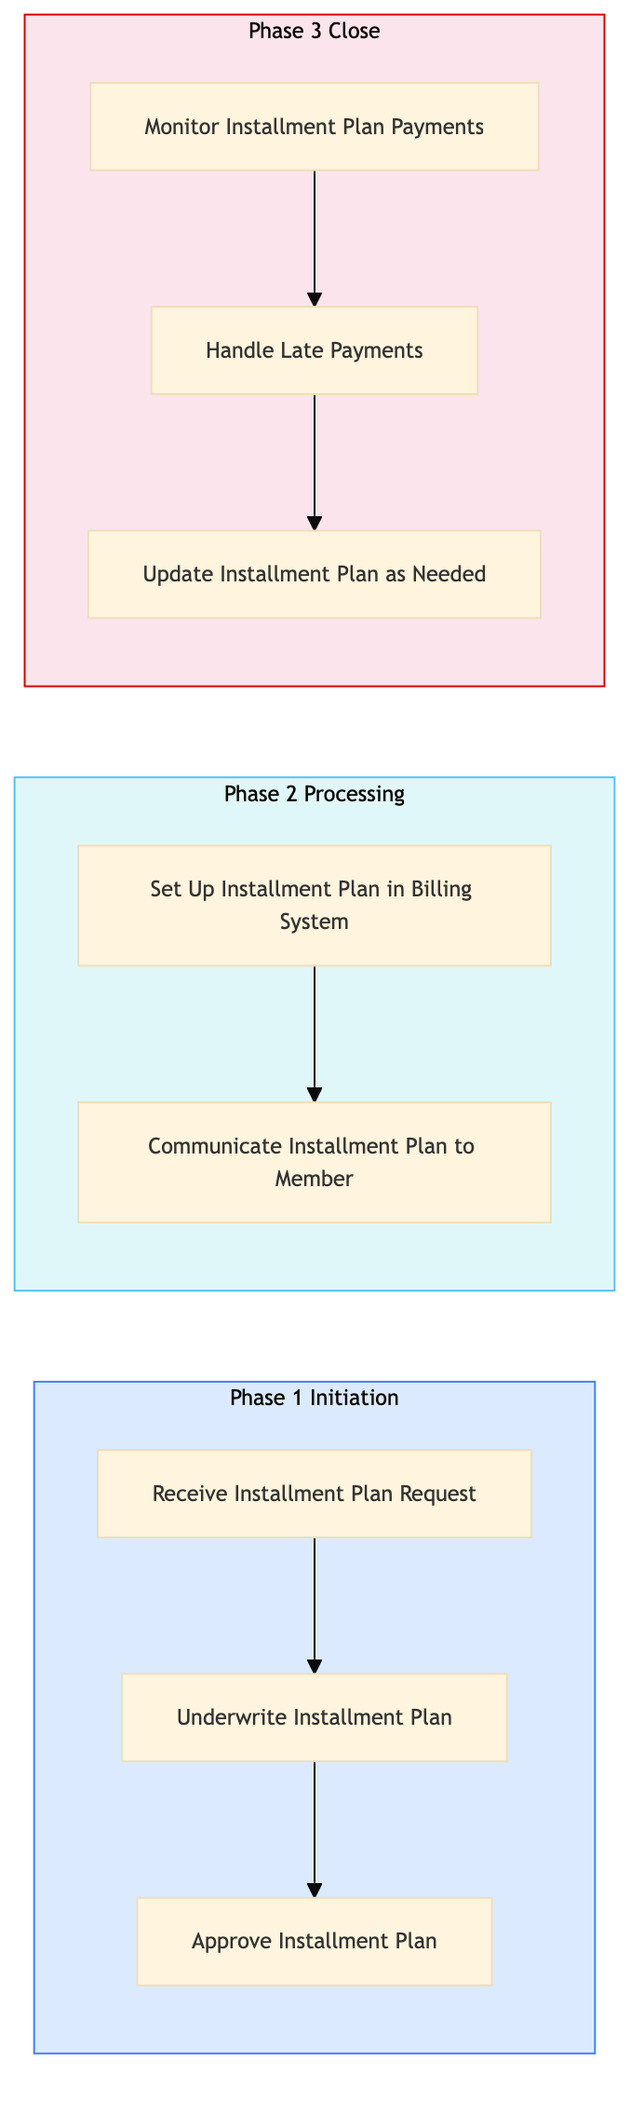
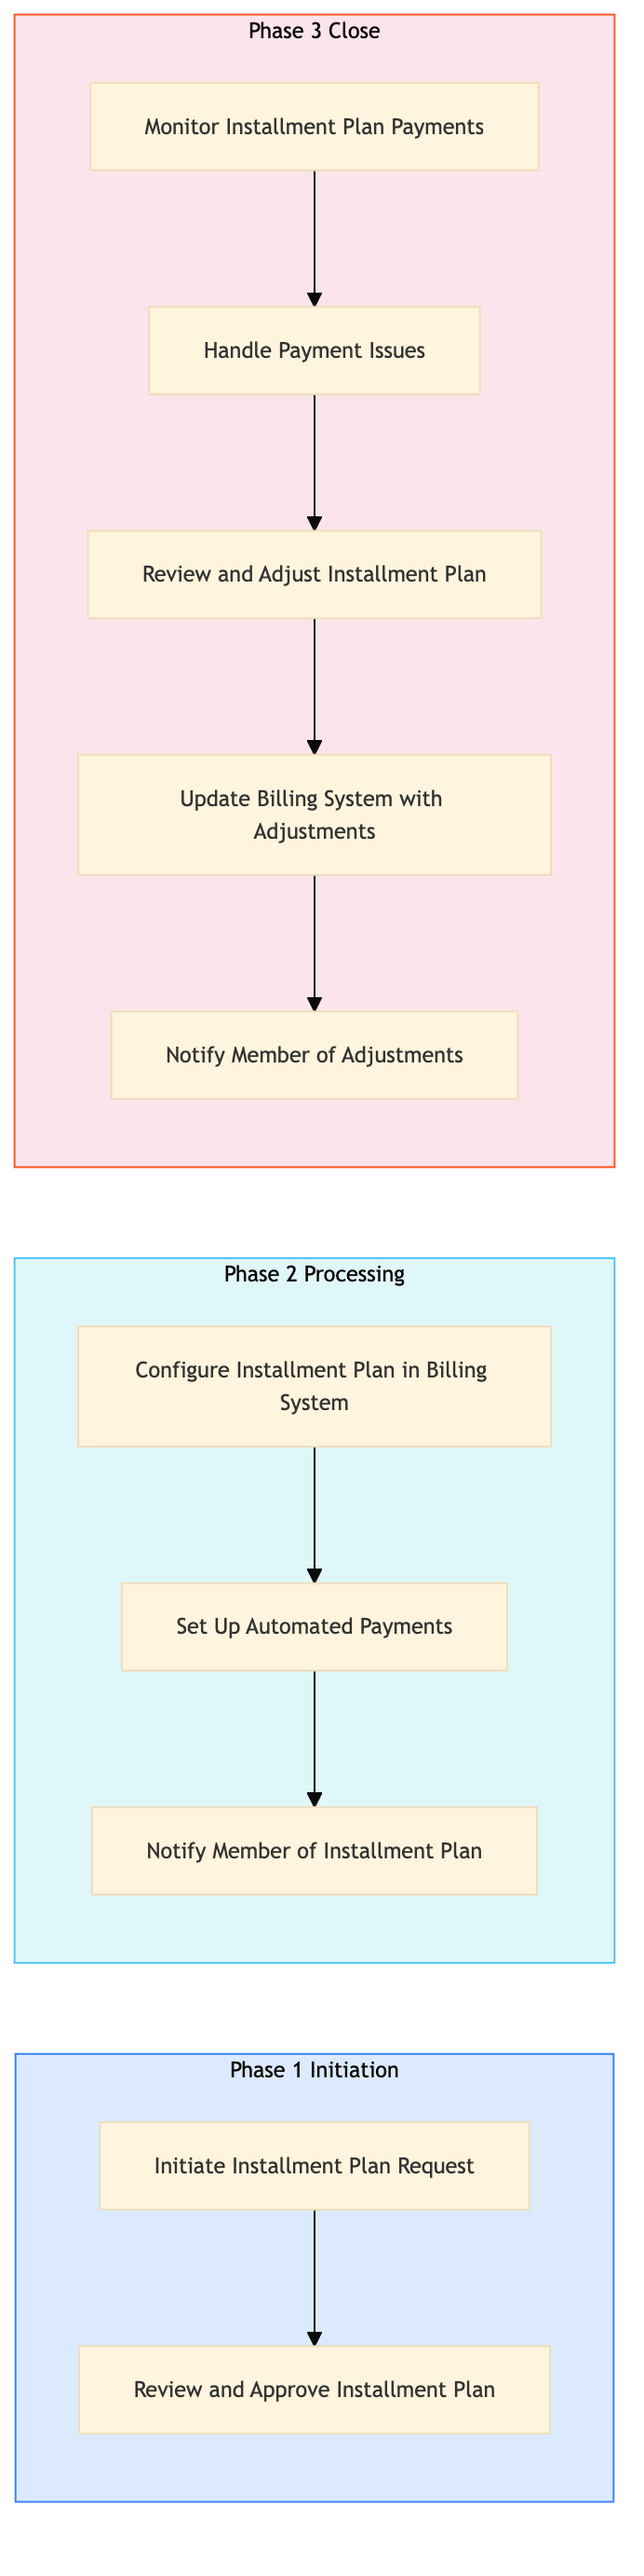
feat: add AAA-IN-BI-02 — Installment Plan Setup and Management

diff --git a/aaa-insurance/insurance-billing/aaa-in-bi-02.html b/aaa-insurance/insurance-billing/aaa-in-bi-02.html
@@ -23,40 +23,16 @@
     <div class="nav-l2-group">
       <a class="nav-l2-title" href="../../shared-membership/membership-enrolment/index.html">Membership Enrolment & Sales</a>
       <div class="nav-l3-list">
-        <a class="nav-l3" href="../../shared-membership/membership-enrolment/shared-mb-en-01.html">SHARED-MB-EN-01 &mdash; New Member Walk-In Enrolment (Branch)</a>
-        <a class="nav-l3" href="../../shared-membership/membership-enrolment/shared-mb-en-02.html">SHARED-MB-EN-02 &mdash; Online Membership Self-Enrolment (Web/Ap</a>
-        <a class="nav-l3" href="../../shared-membership/membership-enrolment/shared-mb-en-03.html">SHARED-MB-EN-03 &mdash; Phone Enrolment via Contact Centre</a>
-        <a class="nav-l3" href="../../shared-membership/membership-enrolment/shared-mb-en-04.html">SHARED-MB-EN-04 &mdash; Affiliate and Employer Group Enrolment</a>
-        <a class="nav-l3" href="../../shared-membership/membership-enrolment/shared-mb-en-05.html">SHARED-MB-EN-05 &mdash; Membership Tier Selection and Upsell</a>
-        <a class="nav-l3" href="../../shared-membership/membership-enrolment/shared-mb-en-06.html">SHARED-MB-EN-06 &mdash; Payment Processing and First-Year Billin</a>
-        <a class="nav-l3" href="../../shared-membership/membership-enrolment/shared-mb-en-07.html">SHARED-MB-EN-07 &mdash; Welcome Kit and Digital Card Issuance</a>
-        <a class="nav-l3" href="../../shared-membership/membership-enrolment/shared-mb-en-08.html">SHARED-MB-EN-08 &mdash; Duplicate Member Detection and Merge</a>
       </div>
     </div>
     <div class="nav-l2-group">
       <a class="nav-l2-title" href="../../shared-membership/membership-renewal/index.html">Membership Renewal & Retention</a>
       <div class="nav-l3-list">
-        <a class="nav-l3" href="../../shared-membership/membership-renewal/shared-mb-rn-01.html">SHARED-MB-RN-01 &mdash; Annual Renewal Notice Generation and Dis</a>
-        <a class="nav-l3" href="../../shared-membership/membership-renewal/shared-mb-rn-02.html">SHARED-MB-RN-02 &mdash; Auto-Renewal Processing (Credit Card on </a>
-        <a class="nav-l3" href="../../shared-membership/membership-renewal/shared-mb-rn-03.html">SHARED-MB-RN-03 &mdash; Lapsed Member Reinstatement Campaign</a>
-        <a class="nav-l3" href="../../shared-membership/membership-renewal/shared-mb-rn-04.html">SHARED-MB-RN-04 &mdash; Membership Upgrade and Tier Change Proce</a>
-        <a class="nav-l3" href="../../shared-membership/membership-renewal/shared-mb-rn-05.html">SHARED-MB-RN-05 &mdash; Associate and Household Member Add-On Pr</a>
-        <a class="nav-l3" href="../../shared-membership/membership-renewal/shared-mb-rn-06.html">SHARED-MB-RN-06 &mdash; Cancellation Request Handling and Save O</a>
-        <a class="nav-l3" href="../../shared-membership/membership-renewal/shared-mb-rn-07.html">SHARED-MB-RN-07 &mdash; Renewal Rate Review and Pricing Update</a>
-        <a class="nav-l3" href="../../shared-membership/membership-renewal/shared-mb-rn-08.html">SHARED-MB-RN-08 &mdash; Membership Winback Campaign (12-36 Month</a>
       </div>
     </div>
     <div class="nav-l2-group">
       <a class="nav-l2-title" href="../../shared-membership/member-services/index.html">Member Services & Benefits</a>
       <div class="nav-l3-list">
-        <a class="nav-l3" href="../../shared-membership/member-services/shared-mb-sv-01.html">SHARED-MB-SV-01 &mdash; Member Discount Partner Redemption</a>
-        <a class="nav-l3" href="../../shared-membership/member-services/shared-mb-sv-02.html">SHARED-MB-SV-02 &mdash; Passport Photo Service Delivery (Branch)</a>
-        <a class="nav-l3" href="../../shared-membership/member-services/shared-mb-sv-03.html">SHARED-MB-SV-03 &mdash; International Driving Permit (IDP) Proce</a>
-        <a class="nav-l3" href="../../shared-membership/member-services/shared-mb-sv-04.html">SHARED-MB-SV-04 &mdash; Notary and Document Authentication Servi</a>
-        <a class="nav-l3" href="../../shared-membership/member-services/shared-mb-sv-05.html">SHARED-MB-SV-05 &mdash; Member Portal Profile and Preferences Ma</a>
-        <a class="nav-l3" href="../../shared-membership/member-services/shared-mb-sv-06.html">SHARED-MB-SV-06 &mdash; Lost and Stolen Membership Card Replacem</a>
-        <a class="nav-l3" href="../../shared-membership/member-services/shared-mb-sv-07.html">SHARED-MB-SV-07 &mdash; Member Data Privacy Request (CCPA and PI</a>
-        <a class="nav-l3" href="../../shared-membership/member-services/shared-mb-sv-08.html">SHARED-MB-SV-08 &mdash; Member Satisfaction Survey and NPS Track</a>
       </div>
     </div>
   </div>
@@ -297,7 +273,7 @@
           <span class="pid-badge org-badge-aaa">AAA</span>
           AAA-IN-BI-02 &mdash; Installment Plan Setup and Management
         </h1>
-        <p>This process outlines the steps for setting up and managing installment plans for AAA Northeast members. It involves coordination between various departments to ensure timely billing and premium management.</p>
+        <p>This process outlines the setup and management of installment plans for AAA Northeast members, ensuring timely billing and premium collection.</p>
       </div>
 
       <!-- BPMN Diagram -->
@@ -323,10 +299,10 @@
             <tr><th>L1 Domain</th><td>AAA Insurance</td></tr>
             <tr><th>L2 Process</th><td>Billing & Premium Management</td></tr>
             <tr><th>L3 Name</th><td>Installment Plan Setup and Management</td></tr>
-            <tr><th>Trigger</th><td>A member requests an installment plan or a renewal of an existing plan.</td></tr>
-            <tr><th>Outcome</th><td>Successful completion results in the establishment of a structured payment plan that aligns with the member's financial situation, ensuring consistent premium payments and avoiding delinquencies.</td></tr>
-            <tr><th>Org Notes</th><td>AAA Northeast may have specific state regulations to adhere to regarding installment plans, which differ from other AAA regions. Additionally, the use of Guidewire Cloud for policy management and Salesforce for customer interactions is unique to this region.</td></tr>
-            <tr><th>Systems</th><td><span class="sys-tag guidewire">Guidewire PolicyCenter</span> <span class="sys-tag guidewire">Guidewire BillingCenter</span> <span class="sys-tag salesforce">Salesforce</span> <span class="sys-tag sabre">Sabre</span> <span class="sys-tag verisk">Verisk</span></td></tr>
+            <tr><th>Trigger</th><td>A member requests an installment plan or a renewal requires an installment option.</td></tr>
+            <tr><th>Outcome</th><td>Successful completion results in a properly configured installment plan with automated payments and accurate financial tracking.</td></tr>
+            <tr><th>Org Notes</th><td>AAA Northeast focuses on direct member interactions through licensed insurance agents, while CAA may have more centralized processing.</td></tr>
+            <tr><th>Systems</th><td><span class="sys-tag guidewire">Guidewire PolicyCenter</span> <span class="sys-tag guidewire">Guidewire BillingCenter</span> <span class="sys-tag grasshopper">Grasshopper Bank</span> <span class="sys-tag salesforce">Salesforce</span></td></tr>
           </table>
         </div>
       </div>
@@ -347,61 +323,61 @@
               <tbody>
         <tr>
           <td class="step-num">1.1</td>
-          <td>Receive Installment Plan Request</td>
+          <td>Initiate Installment Plan Request</td>
           <td>Licensed Insurance Agent</td>
-          <td><span class="sys-tag salesforce">Salesforce</span></td>
-          <td>Customer request form</td>
-          <td>Installment plan proposal</td>
-          <td>Response time within 24 hours</td>
-          <td>Handling complex customer requests</td>
-          <td>N</td>
-          <td><span class="exception-y">Y</span></td>
-        </tr>
-        <tr>
-          <td class="step-num">1.2</td>
-          <td>Underwrite Installment Plan</td>
-          <td>Underwriter</td>
           <td><span class="sys-tag guidewire">Guidewire PolicyCenter</span></td>
+          <td>Member request form</td>
           <td>Installment plan proposal</td>
-          <td>Underwriting decision</td>
-          <td>Decision time within 48 hours</td>
-          <td>Balancing risk and customer satisfaction</td>
+          <td>Time to initiate installment plan < 2 business days</td>
+          <td>Delays in processing member requests</td>
           <td><span class="decision-y">Y</span></td>
           <td>N</td>
         </tr>
         <tr>
-          <td class="step-num">1.3</td>
-          <td>Approve Installment Plan</td>
-          <td>Branch Manager</td>
+          <td class="step-num">1.2</td>
+          <td>Review and Approve Installment Plan</td>
+          <td>Underwriting Analyst</td>
           <td><span class="sys-tag guidewire">Guidewire PolicyCenter</span></td>
-          <td>Underwriting decision</td>
-          <td>Approved installment plan</td>
-          <td>Approval time within 24 hours</td>
-          <td>Managing multiple approval workflows</td>
+          <td>Installment plan proposal</td>
+          <td>Approved installment plan details</td>
+          <td>Approval time < 1 business day</td>
+          <td>Inconsistent approval criteria</td>
           <td><span class="decision-y">Y</span></td>
           <td>N</td>
         </tr>
         <tr>
           <td class="step-num">2.1</td>
-          <td>Set Up Installment Plan in Billing System</td>
+          <td>Configure Installment Plan in Billing System</td>
           <td>Billing Specialist</td>
           <td><span class="sys-tag guidewire">Guidewire BillingCenter</span></td>
-          <td>Approved installment plan</td>
-          <td>Installment schedule</td>
-          <td>Setup time within 48 hours</td>
-          <td>Ensuring accurate billing calculations</td>
+          <td>Approved installment plan details</td>
+          <td>Configured installment plan in billing system</td>
+          <td>Configuration time < 1 business day</td>
+          <td>Manual errors in configuration</td>
           <td>N</td>
           <td><span class="exception-y">Y</span></td>
         </tr>
         <tr>
           <td class="step-num">2.2</td>
-          <td>Communicate Installment Plan to Member</td>
-          <td>Claims Adjuster</td>
+          <td>Set Up Automated Payments</td>
+          <td>Billing Specialist</td>
+          <td><span class="sys-tag grasshopper">Grasshopper Bank</span></td>
+          <td>Configured installment plan details</td>
+          <td>Automated payment setup confirmation</td>
+          <td>Payment setup time < 1 business day</td>
+          <td>Failed payment processing</td>
+          <td>N</td>
+          <td><span class="exception-y">Y</span></td>
+        </tr>
+        <tr>
+          <td class="step-num">2.3</td>
+          <td>Notify Member of Installment Plan</td>
+          <td>Customer Service Representative</td>
           <td><span class="sys-tag salesforce">Salesforce</span></td>
-          <td>Installment schedule</td>
-          <td>Confirmation of receipt</td>
-          <td>Communication time within 24 hours</td>
-          <td>Handling member inquiries and concerns</td>
+          <td>Automated payment setup confirmation</td>
+          <td>Notification sent to member</td>
+          <td>Notification time < 1 business day</td>
+          <td>Undelivered notifications</td>
           <td>N</td>
           <td><span class="exception-y">Y</span></td>
         </tr>
@@ -410,36 +386,60 @@
           <td>Monitor Installment Plan Payments</td>
           <td>Billing Specialist</td>
           <td><span class="sys-tag guidewire">Guidewire BillingCenter</span></td>
-          <td>Installment schedule</td>
+          <td>Automated payment data</td>
           <td>Payment status report</td>
-          <td>Daily monitoring of payments</td>
-          <td>Detecting and addressing late payments</td>
+          <td>Payment monitoring frequency > once per week</td>
+          <td>Late payments</td>
           <td><span class="decision-y">Y</span></td>
           <td>N</td>
         </tr>
         <tr>
           <td class="step-num">3.2</td>
-          <td>Handle Late Payments</td>
-          <td>Collections Specialist</td>
-          <td><span class="sys-tag guidewire">Guidewire BillingCenter</span></td>
-          <td>Payment status report</td>
-          <td>Resolution of late payment</td>
-          <td>Resolution time within 7 days</td>
-          <td>Negotiating with members for timely payments</td>
+          <td>Handle Payment Issues</td>
+          <td>Customer Service Representative</td>
+          <td><span class="sys-tag salesforce">Salesforce</span></td>
+          <td>Payment status report with issues</td>
+          <td>Issue resolution confirmation</td>
+          <td>Issue resolution time < 1 business day</td>
+          <td>Escalation of unresolved payment issues</td>
           <td><span class="decision-y">Y</span></td>
           <td>N</td>
         </tr>
         <tr>
           <td class="step-num">3.3</td>
-          <td>Update Installment Plan as Needed</td>
-          <td>Branch Manager</td>
+          <td>Review and Adjust Installment Plan</td>
+          <td>Underwriting Analyst</td>
           <td><span class="sys-tag guidewire">Guidewire PolicyCenter</span></td>
-          <td>Resolution of late payment</td>
-          <td>Updated installment plan</td>
-          <td>Update time within 48 hours</td>
-          <td>Adjusting plans to accommodate changes in member's financial situation</td>
+          <td>Payment status report with issues</td>
+          <td>Adjusted installment plan details</td>
+          <td>Adjustment time < 1 business day</td>
+          <td>Inconsistent adjustment criteria</td>
           <td><span class="decision-y">Y</span></td>
           <td>N</td>
+        </tr>
+        <tr>
+          <td class="step-num">3.4</td>
+          <td>Update Billing System with Adjustments</td>
+          <td>Billing Specialist</td>
+          <td><span class="sys-tag guidewire">Guidewire BillingCenter</span></td>
+          <td>Adjusted installment plan details</td>
+          <td>Updated billing system configuration</td>
+          <td>Update time < 1 business day</td>
+          <td>Manual errors in updates</td>
+          <td>N</td>
+          <td><span class="exception-y">Y</span></td>
+        </tr>
+        <tr>
+          <td class="step-num">3.5</td>
+          <td>Notify Member of Adjustments</td>
+          <td>Customer Service Representative</td>
+          <td><span class="sys-tag salesforce">Salesforce</span></td>
+          <td>Updated billing system configuration</td>
+          <td>Notification sent to member</td>
+          <td>Notification time < 1 business day</td>
+          <td>Undelivered notifications</td>
+          <td>N</td>
+          <td><span class="exception-y">Y</span></td>
         </tr>
               </tbody>
             </table>
@@ -452,9 +452,9 @@
         <div class="card-header">&#x1F4CA; KPIs &amp; Risk Register</div>
         <div class="card-body">
           <p class="mb-8"><strong>KPIs</strong></p>
-          <div class="kpi-list mb-8"><span class="kpi-pill">Response time within 24 hours</span> <span class="kpi-pill">Decision time within 48 hours</span> <span class="kpi-pill">Approval time within 24 hours</span> <span class="kpi-pill">Setup time within 48 hours</span> <span class="kpi-pill">Communication time within 24 hours</span> <span class="kpi-pill">Daily monitoring of payments</span> <span class="kpi-pill">Resolution time within 7 days</span> <span class="kpi-pill">Update time within 48 hours</span></div>
+          <div class="kpi-list mb-8"><span class="kpi-pill">Time to initiate installment plan < 2 business days</span> <span class="kpi-pill">Approval time < 1 business day</span> <span class="kpi-pill">Configuration time < 1 business day</span> <span class="kpi-pill">Payment setup time < 1 business day</span> <span class="kpi-pill">Notification time < 1 business day</span> <span class="kpi-pill">Payment monitoring frequency > once per week</span> <span class="kpi-pill">Issue resolution time < 1 business day</span> <span class="kpi-pill">Adjustment time < 1 business day</span> <span class="kpi-pill">Update time < 1 business day</span></div>
           <p class="mb-8" style="margin-top:16px"><strong>Key Risks</strong></p>
-          <div class="kpi-list"><span class="risk-pill">Delays in processing installment plan requests due to system issues</span> <span class="risk-pill">Underwriting errors leading to incorrect approval decisions</span> <span class="risk-pill">Inaccurate billing calculations resulting in late payments</span> <span class="risk-pill">Difficulty in communicating complex plans to members</span> <span class="risk-pill">Failure to detect and address late payments promptly</span></div>
+          <div class="kpi-list"><span class="risk-pill">Delays in processing member requests</span> <span class="risk-pill">Inconsistent approval criteria</span> <span class="risk-pill">Manual errors in configuration</span> <span class="risk-pill">Failed payment processing</span> <span class="risk-pill">Undelivered notifications</span> <span class="risk-pill">Late payments</span> <span class="risk-pill">Escalation of unresolved payment issues</span> <span class="risk-pill">Inconsistent adjustment criteria</span> <span class="risk-pill">Manual errors in updates</span></div>
         </div>
       </div>
 

diff --git a/aaa-insurance/insurance-billing/index.html b/aaa-insurance/insurance-billing/index.html
@@ -69,6 +69,7 @@
     <div class="nav-l2-group open">
       <a class="nav-l2-title" href="../../aaa-insurance/insurance-billing/index.html">Billing & Premium Management</a>
       <div class="nav-l3-list">
+        <a class="nav-l3" href="../../aaa-insurance/insurance-billing/aaa-in-bi-01.html">AAA-IN-BI-01 &mdash; Premium Invoice Generation and Distribut</a>
       </div>
     </div>
     <div class="nav-l2-group">
@@ -265,14 +266,14 @@
           <a href="../index.html">AAA Insurance</a>
         </div>
         <h1>🛡 Billing & Premium Management</h1>
-        <p>0 of 8 processes complete</p>
+        <p>1 of 8 processes complete</p>
       </div>
       <div class="card">
         <div class="card-header">Process List</div>
         <div class="card-body">
           <table class="l4-table" style="min-width:500px">
             <thead><tr><th>PID</th><th>L3 Process Name</th><th>Status</th></tr></thead>
-            <tbody><tr><td>AAA-IN-BI-01</td><td>Premium Invoice Generation and Distribution</td><td><span style="color:#94a3b8">&#x23F3; Queued</span></td></tr>
+            <tbody><tr><td><a href="aaa-in-bi-01.html">AAA-IN-BI-01</a></td><td>Premium Invoice Generation and Distribution</td><td><span style="color:#16a34a;font-weight:700">&#x2705; Complete</span></td></tr>
 <tr><td>AAA-IN-BI-02</td><td>Installment Plan Setup and Management</td><td><span style="color:#94a3b8">&#x23F3; Queued</span></td></tr>
 <tr><td>AAA-IN-BI-03</td><td>Payment Receipt and EFT and Credit Card Processing</td><td><span style="color:#94a3b8">&#x23F3; Queued</span></td></tr>
 <tr><td>AAA-IN-BI-04</td><td>NSF and Failed Payment Handling and Notice</td><td><span style="color:#94a3b8">&#x23F3; Queued</span></td></tr>

diff --git a/index.html b/index.html
@@ -69,6 +69,7 @@
     <div class="nav-l2-group">
       <a class="nav-l2-title" href="aaa-insurance/insurance-billing/index.html">Billing & Premium Management</a>
       <div class="nav-l3-list">
+        <a class="nav-l3" href="aaa-insurance/insurance-billing/aaa-in-bi-01.html">AAA-IN-BI-01 &mdash; Premium Invoice Generation and Distribut</a>
       </div>
     </div>
     <div class="nav-l2-group">
@@ -265,9 +266,9 @@
       </div>
 
       <div class="stats-bar">
-        <div class="stat-card"><div class="stat-num">18</div><div class="stat-label">Processes Complete</div></div>
+        <div class="stat-card"><div class="stat-num">19</div><div class="stat-label">Processes Complete</div></div>
         <div class="stat-card"><div class="stat-num">268</div><div class="stat-label">Total Processes</div></div>
-        <div class="stat-card"><div class="stat-num">18</div><div class="stat-label">AAA Complete</div></div>
+        <div class="stat-card"><div class="stat-num">19</div><div class="stat-label">AAA Complete</div></div>
         <div class="stat-card"><div class="stat-num caa-red">0</div><div class="stat-label">CAA Complete</div></div>
         <div class="stat-card"><div class="stat-num">0</div><div class="stat-label">Shared Complete</div></div>
       </div>
@@ -287,7 +288,7 @@
         <span class="nav-org-dot aaa" style="display:inline-block;margin-right:4px"></span>
         AAA
       </p>
-      <p class="card-count">18 / 34 processes complete</p>
+      <p class="card-count">19 / 34 processes complete</p>
     </div>
     <div class="domain-card org-caa">
       <h3><a href="caa-insurance/index.html">🍁 CAA Insurance (Ontario)</a></h3>

diff --git a/aaa-insurance/index.html b/aaa-insurance/index.html
@@ -69,6 +69,7 @@
     <div class="nav-l2-group">
       <a class="nav-l2-title" href="../aaa-insurance/insurance-billing/index.html">Billing & Premium Management</a>
       <div class="nav-l3-list">
+        <a class="nav-l3" href="../aaa-insurance/insurance-billing/aaa-in-bi-01.html">AAA-IN-BI-01 &mdash; Premium Invoice Generation and Distribut</a>
       </div>
     </div>
     <div class="nav-l2-group">
@@ -262,7 +263,7 @@
       <div class="page-header">
         <div class="breadcrumb"><a href="../index.html">Home</a></div>
         <h1>🛡 AAA Insurance</h1>
-        <p>18 of 34 processes complete across 4 process groups</p>
+        <p>19 of 34 processes complete across 4 process groups</p>
       </div>
       <div class="domain-grid">    <div class="domain-card org-aaa">
       <h3><a href="insurance-quoting/index.html">Quoting & Underwriting</a></h3>
@@ -274,7 +275,7 @@
     </div>
     <div class="domain-card org-aaa">
       <h3><a href="insurance-billing/index.html">Billing & Premium Management</a></h3>
-      <p class="card-meta">0/8 processes complete</p>
+      <p class="card-meta">1/8 processes complete</p>
     </div>
     <div class="domain-card org-aaa">
       <h3><a href="agency-operations/index.html">Insurance Agency Operations</a></h3>
